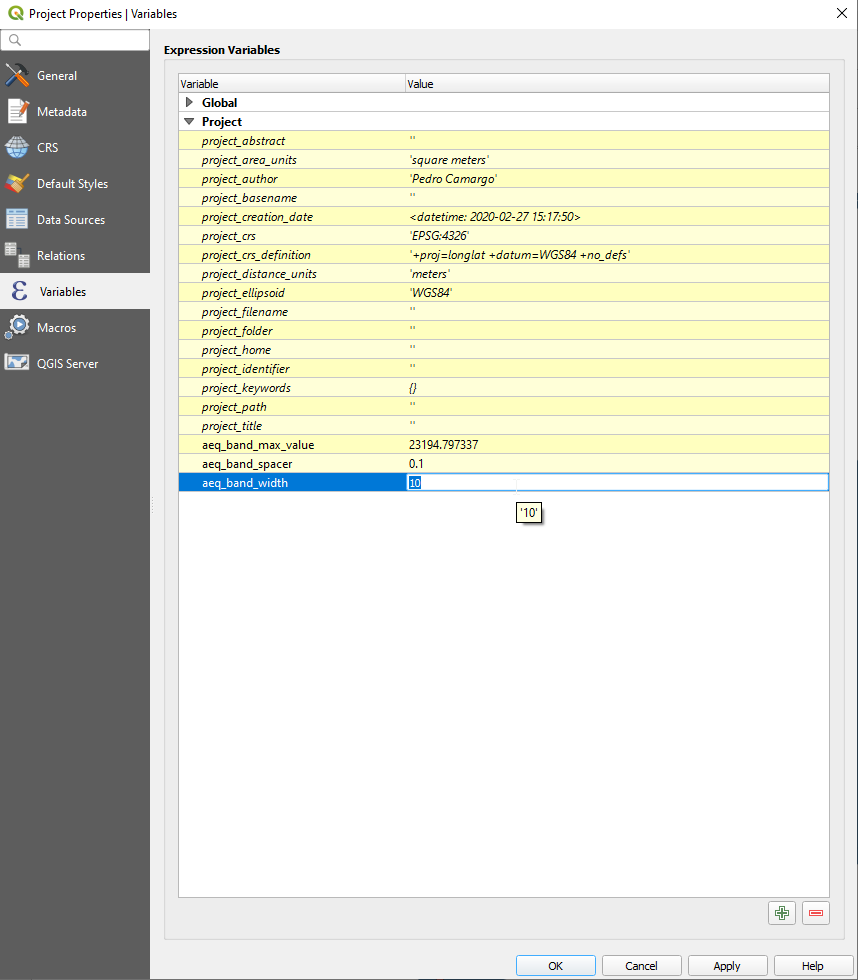
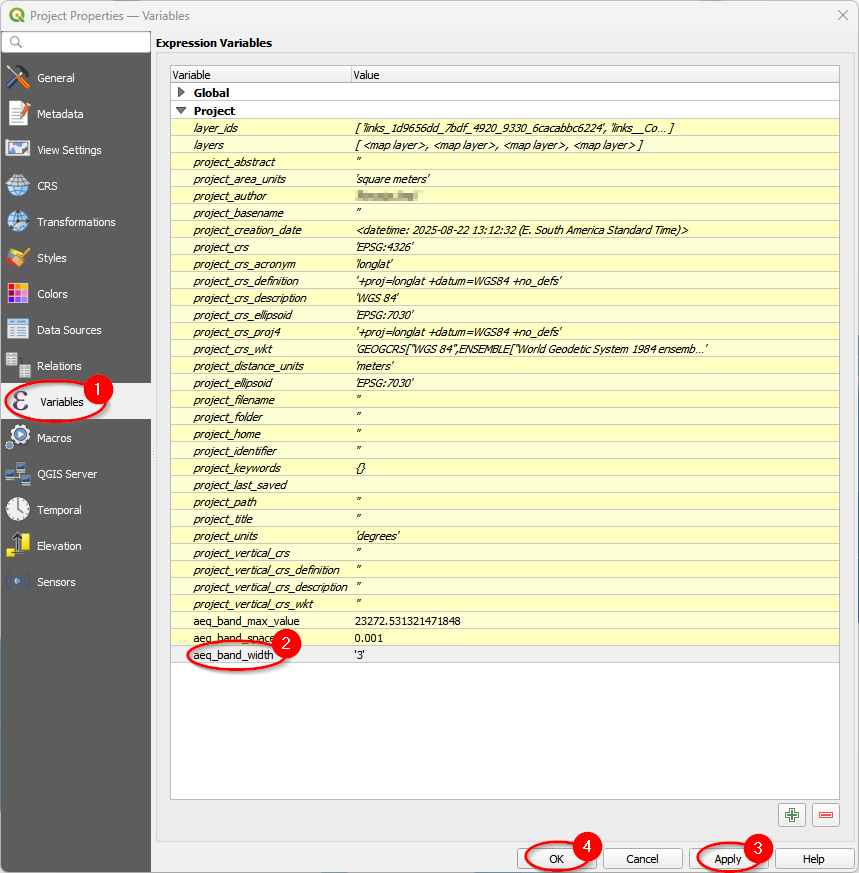
stacked bandwitdh

diff --git a/docs/source/menus_in_detail/gistools.rst b/docs/source/menus_in_detail/gistools.rst
@@ -100,7 +100,7 @@ and *node id* that is compatible with your matrix.
     .. image:: ../images/desire_lines_map.png
         :alt: Desire lines
 
-.. _siouxfalls-stacked-bandwidth:
+.. _mapping_stacked_bandwidth:
 
 Stacked Bandwidth
 -----------------
@@ -129,18 +129,21 @@ color box. To add the band, we click on the *"Add band"* button (4). You'll noti
 band configuration is now available at the table and the *"Create bands"* button is enabled.
 Click on it (5) and the links layer in the canvas will automatically be updated.
 
-.. image:: ../images/stacked_bandwidth_solid_color.png
+.. image:: ../images/stacked_bandwidth_with_solid_color.png
     :align: center
     :alt: Add stacked bandwidth with solid color
 
-It is also possible to 
+It is also possible to use color ramps instead of solid colors for plotting your data.
+Select the line layer (1) and the flow variables (2 and 3). Let's select the *"Color ramp"*
+option (4) and configure the ramp (5).
 
 .. image:: ../images/stacked_bandwidth_with_color_ramp_1.png
     :align: center
     :alt: Add stacked bandwidth with color ramp - set up
 
-When the color ramp window opens, configure once again the fields and the color ramp you
-want to use. We'll use the default 'Blues' in this example.
+When the color ramp window opens, configure once again the fields (1) and the color ramp
+you want to use. We'll use the default 'Blues' in this example. Click *"Done"* (2) when
+you finished.
 
 .. image:: ../images/stacked_bandwidth_color_ramp_config.png
     :align: center
@@ -174,10 +177,10 @@ changing the project variables.
     :subcaptions: below
     :align: center
 
-    .. image:: ../images/bandwidth_maps.png
+    .. image:: ../images/stacked_bandwidth_solid_color.png
         :alt: Solid color
     
-    .. image:: ../images/bandwidth_maps.png
+    .. image:: ../images/stacked_bandwidth_color_ramp.png
         :alt: Color ramp
 
 .. _siouxfalls-scenario-comparison:

diff --git a/docs/source/menus_in_detail/traffic_assignment.rst b/docs/source/menus_in_detail/traffic_assignment.rst
@@ -157,7 +157,7 @@ mapping canvas area.
     :alt: Visualize traffic assignment result with link layer
 
 If you want to enhance your data visualization, now we can revisit the instructions for
-:ref:`siouxfalls-stacked-bandwidth`
+:ref:`mapping_stacked_bandwidth`
 
 Creating a YAML configuration file
 ----------------------------------
